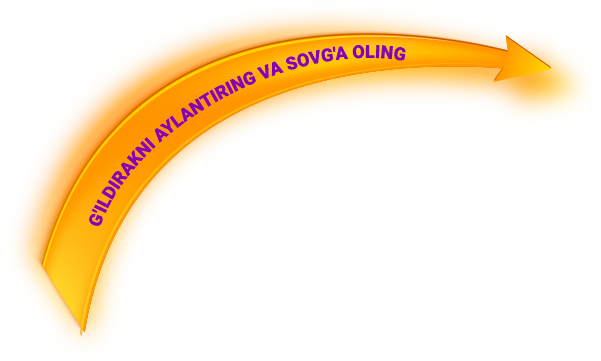
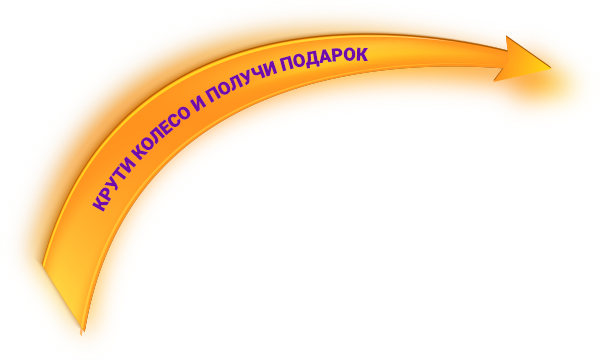
russian  version

Changed region(s): [[0.0599, 0.0914, 0.8985, 0.9141]]

diff --git a/index.html b/index.html
@@ -1,94 +1,128 @@
 <!DOCTYPE html>
 <html lang="en">
+  <head>
+    <meta charset="UTF-8" />
+    <meta name="viewport" content="initial-scale=1.0, width=device-width" />
+    <title>BONS</title>
+    <link rel="shortcut icon" type="image/x-icon" href="" />
+    <link rel="stylesheet" href="css/style.css" />
+  </head>
 
-<head>
-	<meta charset="UTF-8">
-	<meta name="viewport" content="initial-scale=1.0, width=device-width">
-	<title>BONS</title>
-	<link rel="shortcut icon" type="image/x-icon" href="">
-	<link rel="stylesheet" href="css/style.css">
-</head>
+  <body>
+    <header class="header">
+      <a href="">
+        <img class="header__logo" src="./img/desktop/logo.png" alt="logo" />
+      </a>
+    </header>
+    <div class="wrapper">
+      <div class="cosmonaut1">
+        <img
+          class="cosmonaut-desktop"
+          src="./img/desktop/cosmonaut.png"
+          alt=""
+        />
+        <img class="cosmonaut-mobile" src="./img/mobile/cosmonaut.png" alt="" />
+      </div>
+      <div class="cosmonaut2">
+        <img
+          class="cosmonaut-desktop"
+          src="./img/desktop/cosmonaut_2.png"
+          alt=""
+        />
+        <img
+          class="cosmonaut-mobile"
+          src="./img/mobile/cosmonaut_2.png"
+          alt=""
+        />
+      </div>
+      <div class="space1">
+        <img src="./img/desktop/space.png" alt="" />
+      </div>
+      <div class="space2">
+        <img src="./img/desktop/space_2.png" alt="" />
+      </div>
+      <div class="space3">
+        <img src="./img/desktop/space3.png" alt="" />
+      </div>
+      <div class="planet">
+        <img src="./img/desktop/planet.png" alt="" />
+      </div>
+      <div class="arrow">
+        <img src="./img/desktop/arrow.png" alt="" />
+      </div>
 
-<body>
-	<header class="header">
-		<a href="">
-			<img class="header__logo" src="./img/desktop/logo.png" alt="logo">
-		</a>
-	</header>
-	<div class="wrapper">
-		<div class="cosmonaut1">
-			<img class="cosmonaut-desktop" src="./img/desktop/cosmonaut.png" alt="">
-			<img class="cosmonaut-mobile" src="./img/mobile/cosmonaut.png" alt="">
-		</div>
-		<div class="cosmonaut2">
-			<img class="cosmonaut-desktop" src="./img/desktop/cosmonaut_2.png" alt="">
-			<img class="cosmonaut-mobile" src="./img/mobile/cosmonaut_2.png" alt="">
-		</div>
-		<div class="space1">
-			<img src="./img/desktop/space.png" alt="">
-		</div>
-		<div class="space2">
-			<img src="./img/desktop/space_2.png" alt="">
-		</div>
-		<div class="space3">
-			<img src="./img/desktop/space3.png" alt="">
-		</div>
-		<div class="planet">
-			<img src="./img/desktop/planet.png" alt="">
-		</div>
-		<div class="arrow">
-			<img src="./img/desktop/arrow.png" alt="">
-		</div>
-	
-		<div class="wheel-wrapper">
-			<img class="wheel--outside" src="./img/desktop/stroke.png" alt="wheel-outside">
-			<img class="wheel--inside" id="wheel" src="./img/desktop/main.png" alt="wheel-inside">
-			<a class="wheel-btn" id="button" onclick="animation()" href="javascript:void(0);">
-				<img src="./img/desktop/btn.png" alt="">
-			</a>
-		</div>
-		<div class="modal" id="modal">
-			<p class="modal__title">Tabriklaymiz!</p>
-			<div class="modal__text-wrapper" id="firstWrapper">
-				<p class="modal__text">Siz yutdingiz
-					+200 ta firspin</p>
-			</div>
-			<div class="modal__text-wrapper" id="secondWrapper">
-				<p class="modal__text">Sen yutding! 200% depozitga bonus + 200 ta frispin</p>
-			</div>
-			<a class="modal__button" href="javascript:void(0);" id="redirectLink" onclick="closeModal()">
-				<p id="buttonText">Bonuslarni oling</p>
-			</a>
-			<a class="modal__close-button" id="closePopup" href="javascript:void(0);" onclick="closeModal()">
-			</a>
-		</div>
-	</div>
-	<div id="overlay"></div>
-	<main class="main">
-		<div class="container">
-			<ul class="list">
-				<li class="list-item first-item">
-					<img class="list-item__img" src="./img/desktop/1.png" alt="">
-					<p class="list-item__text">Ko'p o'yin stollari</p>
-				</li>
-				<li class="list-item second-item">
-					<img class="list-item__img" src="./img/desktop/2.png" alt="">
-					<p class="list-item__text">Jonli dilerlar</p>
-				</li>
-				<li class="list-item third-item">
-					<img class="list-item__img" src="./img/desktop/3.png" alt="">
-					<p class="list-item__text">1000+ spin</p>
-				</li>
-				<li class="list-item fourth-item">
-					<img class="list-item__img" src="./img/desktop/4.png" alt="">
-					<p class="list-item__text last-child">10% naqd pul</p>
-				</li>
-			</ul>
-		</div>
-	</main>
+      <div class="wheel-wrapper">
+        <img
+          class="wheel--outside"
+          src="./img/desktop/stroke.png"
+          alt="wheel-outside"
+        />
+        <img
+          class="wheel--inside"
+          id="wheel"
+          src="./img/desktop/main.png"
+          alt="wheel-inside"
+        />
+        <a
+          class="wheel-btn"
+          id="button"
+          onclick="animation()"
+          href="javascript:void(0);"
+        >
+          <img src="./img/desktop/btn.png" alt="" />
+        </a>
+      </div>
+      <div class="modal" id="modal">
+        <p class="modal__title">Поздравляем!</p>
+        <div class="modal__text-wrapper" id="firstWrapper">
+          <p class="modal__text">Вы выиграли 200 бесплатных вращений</p>
+        </div>
+        <div class="modal__text-wrapper" id="secondWrapper">
+          <p class="modal__text">
+            Вы выиграли 200% бонус на депозит и +200 фриспинов
+          </p>
+        </div>
+        <a
+          class="modal__button"
+          href="javascript:void(0);"
+          id="redirectLink"
+          onclick="closeModal()"
+        >
+          <p id="buttonText">Забрать бонусы</p>
+        </a>
+        <a
+          class="modal__close-button"
+          id="closePopup"
+          href="javascript:void(0);"
+          onclick="closeModal()"
+        >
+        </a>
+      </div>
+    </div>
+    <div id="overlay"></div>
+    <main class="main">
+      <div class="container">
+        <ul class="list">
+          <li class="list-item first-item">
+            <img class="list-item__img" src="./img/desktop/1.png" alt="" />
+            <p class="list-item__text">Много игровых столов</p>
+          </li>
+          <li class="list-item second-item">
+            <img class="list-item__img" src="./img/desktop/2.png" alt="" />
+            <p class="list-item__text">Живые диллеры</p>
+          </li>
+          <li class="list-item third-item">
+            <img class="list-item__img" src="./img/desktop/3.png" alt="" />
+            <p class="list-item__text">1000+ спинов</p>
+          </li>
+          <li class="list-item fourth-item">
+            <img class="list-item__img" src="./img/desktop/4.png" alt="" />
+            <p class="list-item__text last-child">10% кэшбэк</p>
+          </li>
+        </ul>
+      </div>
+    </main>
 
-
-	<script src="js/bundle.js"></script>
-</body>
-
+    <script src="js/bundle.js"></script>
+  </body>
 </html>

diff --git a/css/style.css b/css/style.css
@@ -217,6 +217,7 @@ a {
   -ms-flex-pack: justify;
   justify-content: space-between;
   width: 100%;
+  transform: translateX(-1.5em);
 }
 
 .list-item__img {
@@ -522,10 +523,10 @@ a {
 .wheel-btn {
   position: absolute;
   left: 50%;
-  top: 29.8em;
-  -webkit-transform: translateX(-50%);
-  -ms-transform: translateX(-50%);
-  transform: translateX(-50%);
+  top: 29.9em;
+  -webkit-transform: translateX(-51.8%);
+  -ms-transform: translateX(-51.8%);
+  transform: translateX(-51.8%);
   display: -webkit-box;
   display: -webkit-flex;
   display: -ms-flexbox;
@@ -638,7 +639,7 @@ a {
   font-weight: 500;
   font-size: 1.5em;
   color: #fff;
-  max-width: 7em;
+  max-width: 8em;
   margin: 0 auto;
 }
 
@@ -671,13 +672,16 @@ a {
   .cosmonaut2 > img {
     width: 49em;
   }
+  .list {
+    transform: translateX(0);
+  }
   .list-item__img {
     width: 16.8em;
   }
   .list-item__text {
     font-size: 3.35em;
     font-family: "Roboto-bold";
-    max-width: 5.6em;
+    max-width: 7.3em;
   }
   .last-child {
     max-width: none;
@@ -685,12 +689,13 @@ a {
   .list-item:nth-of-type(2) {
     margin-top: 5em;
     margin-right: 0;
+    margin-left: -4em;
   }
   .list-item:nth-of-type(3) {
     margin-top: 5em;
   }
   .main {
-    max-width: 90.55em;
+    max-width: 94.75em;
     margin-top: 62em;
   }
   .modal {
@@ -714,7 +719,7 @@ a {
   }
   .modal__button {
     background-image: url(../img/mobile/popup-btn-mob.png);
-    width: 7.3em;
+    width: 10.5em
     padding: unset;
     height: 4.4em;
     display: -webkit-box;

diff --git a/js/bundle.js b/js/bundle.js
@@ -12,14 +12,14 @@ var counter = 0;
 
 function animation() {
   if (counter < 1) {
-    if (innerWidth < 500) {
-      buttonText.innerHTML = "OK";
-    }
+    // if (innerWidth < 500) {
+    //   buttonText.innerHTML = "OK";
+    // }
     wheel.classList.toggle("step-1");
     wheelBtn.classList.toggle("animation-in-process");
     counter++;
   } else {
-    buttonText.innerHTML = "O‘ynash";
+    // buttonText.innerHTML = "O‘ynash";
     firstWrapper.style.display = "none";
     secondWrapper.style.display = "block";
     wheel.classList.toggle("step-2");
